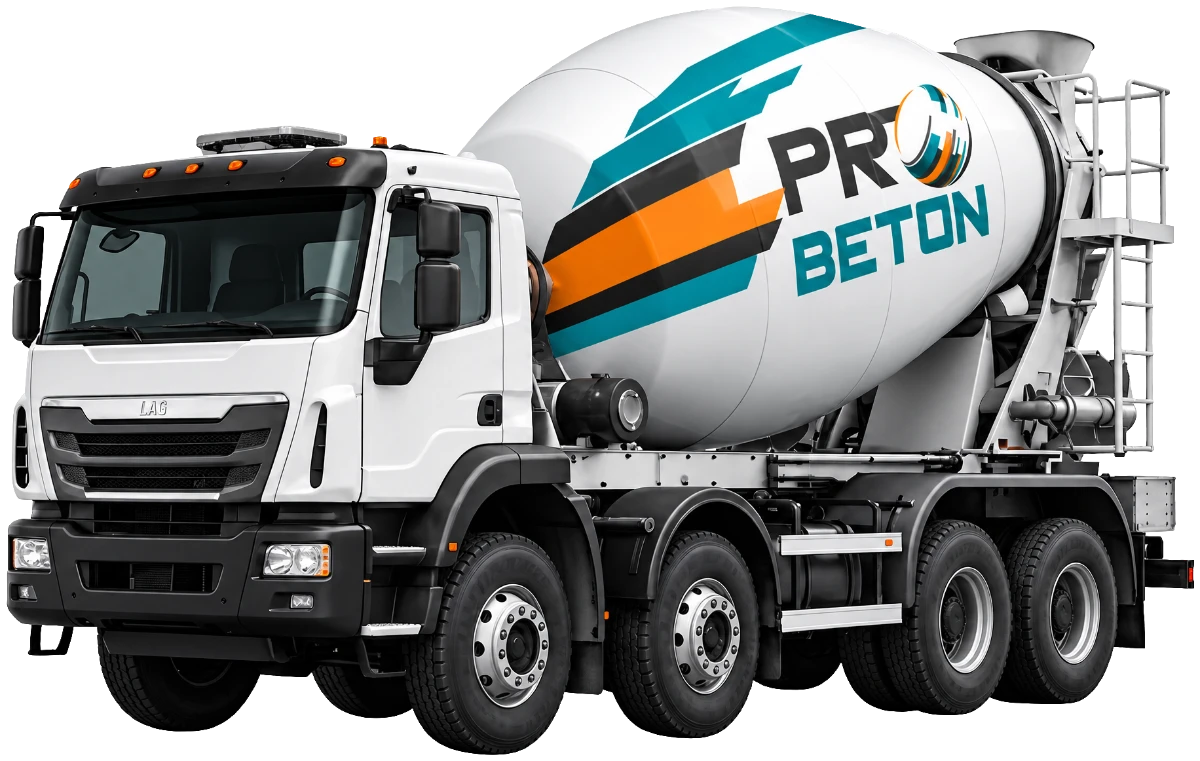
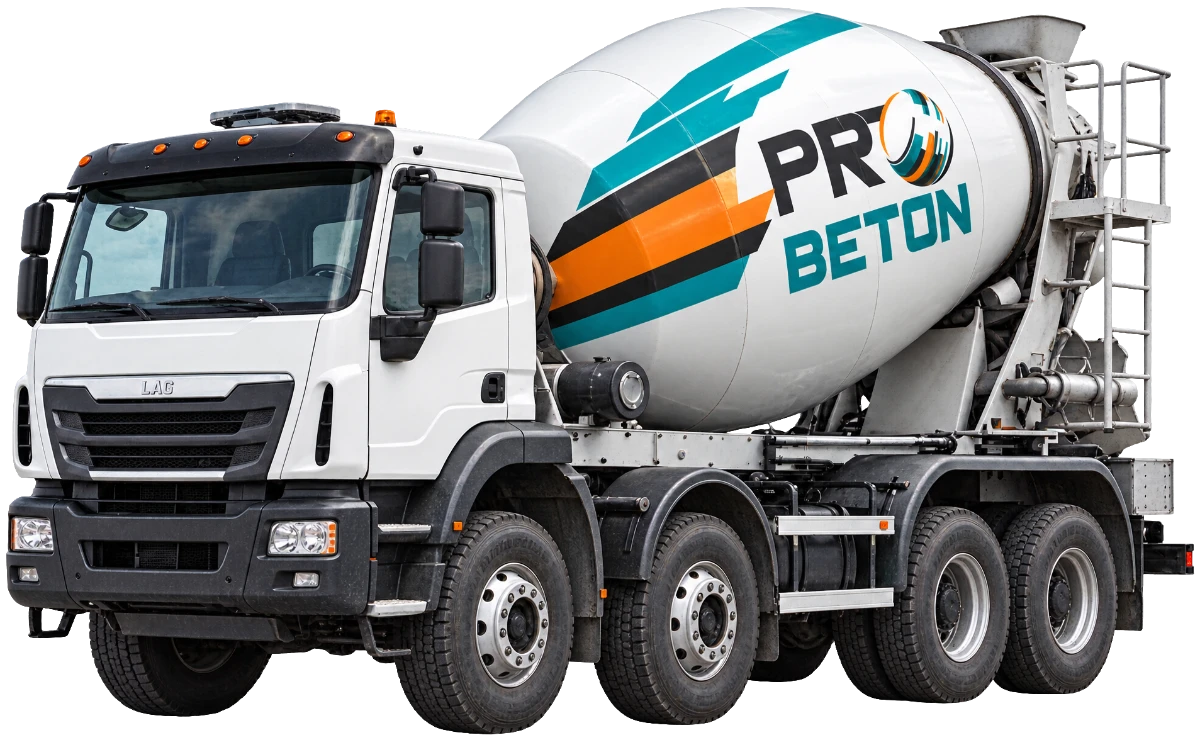
Фотореалістична бетономішалка, великі портрети команди, перша картка гасне при наведенні на іншу

diff --git a/index.html b/index.html
@@ -257,18 +257,19 @@ a{color:inherit}
 .lines .v.soc{display:flex}
 
 /* ---------- про нас ---------- */
-.about{display:grid;grid-template-columns:1fr 1fr;gap:clamp(24px,4vw,64px);align-items:start}
-.story{display:grid;gap:18px;font-size:18px}
+.about{display:grid;grid-template-columns:1fr;gap:clamp(36px,4.5vw,64px);align-items:start}
+.story{display:grid;grid-template-columns:1.15fr 1fr;gap:14px clamp(24px,5vw,80px);font-size:18px;align-items:start}
+.story p:first-child{grid-row:span 2}
 .story p{color:var(--mut)}
 .story p:first-child{color:var(--asphalt);font-size:clamp(20px,2vw,24px);line-height:1.45;font-weight:500}
-.team{display:grid;grid-template-columns:repeat(3,1fr);gap:12px}
-.person{margin:0;position:relative;border-radius:20px;overflow:hidden;aspect-ratio:3/4;max-width:100%;background:var(--asphalt);min-width:0}
+.team{display:grid;grid-template-columns:repeat(3,1fr);gap:clamp(12px,1.8vw,24px)}
+.person{margin:0;position:relative;border-radius:28px;overflow:hidden;aspect-ratio:4/5;max-width:100%;background:var(--asphalt);min-width:0}
 .person img{width:100%;height:100%;object-fit:cover;object-position:50% 0;display:block;transition:transform .6s ease}
 .person:hover img{transform:scale(1.04)}
-.person figcaption{position:absolute;inset:auto 0 0;padding:56px 14px 14px;color:#fff;background:linear-gradient(rgba(0,36,46,0),rgba(0,36,46,.82) 45%,rgba(0,30,38,.96))}
+.person figcaption{position:absolute;inset:auto 0 0;padding:90px clamp(16px,2vw,28px) clamp(16px,2vw,26px);color:#fff;background:linear-gradient(rgba(0,36,46,0),rgba(0,36,46,.82) 45%,rgba(0,30,38,.96))}
 .person{background:var(--teal-deep)}
-.person b{font:700 15px/1.2 var(--body);display:block}
-.person span{font-size:12.5px;color:#C9CBCE;display:block;margin-top:4px;line-height:1.3}
+.person b{font:800 clamp(18px,1.7vw,24px)/1.15 var(--display);letter-spacing:-.01em;display:block}
+.person span{font-size:clamp(13px,1.1vw,16px);color:#C9E4E7;display:block;margin-top:6px;line-height:1.3}
 #tekhnika{position:relative}
 #tekhnika .in{position:relative}
 .loader{position:absolute;right:var(--pad-r);top:clamp(-170px,-11vw,-80px);width:min(44vw,560px);height:auto;pointer-events:none;z-index:2;filter:drop-shadow(0 34px 40px rgba(0,0,0,.55))}
@@ -306,7 +307,8 @@ footer .in{display:flex;flex-wrap:wrap;gap:16px 32px;justify-content:space-betwe
 
 @media (max-width:1040px){
   .top nav{display:none}
-  .hero .in,.beton,.show,.about,.contact{grid-template-columns:1fr}
+  .hero .in,.beton,.show,.about,.contact,.story{grid-template-columns:1fr}
+  .story p:first-child{grid-row:auto}
   .fleet{grid-template-columns:1fr 1fr}
   .flow{grid-template-columns:1fr 1fr}
   .zbv{grid-template-columns:1fr 1fr 1fr}
@@ -406,6 +408,16 @@ footer .in{display:flex;flex-wrap:wrap;gap:16px 32px;justify-content:space-betwe
 .photo .flow li:hover{background:var(--signal);border-color:var(--signal);transform:translateY(-4px)}
 .photo .flow li:hover::before{color:#fff}
 .photo .flow li:hover p{color:#FFE5D6}
+/* поки наведено на іншу картку, перша (помаранчева за замовчуванням) стає звичайною */
+.fleet:hover .mach.hl:not(:hover){background:var(--asphalt);color:#F2F1EC}
+.fleet:hover .mach.hl:not(:hover) p{color:var(--mut-d)}
+.fleet:hover .mach.hl:not(:hover) a{color:var(--signal)}
+.fleet:hover .mach.hl:not(:hover) .hex{--hx:var(--teal)}
+.fleet:hover .mach.hl:not(:hover) .hex svg *{stroke:#fff}
+.fleet:hover .mach.hl:not(:hover) .hex svg circle{fill:var(--teal)}
+.photo .flow:hover li.now:not(:hover){background:rgba(255,255,255,.1);border-color:rgba(255,255,255,.18)}
+.photo .flow:hover li.now:not(:hover)::before{color:var(--signal)}
+.photo .flow:hover li.now:not(:hover) p{color:#D7D9DC}
 .person .c{position:absolute;inset:0;opacity:0;transition:opacity .45s ease,transform .6s ease}
 .person:hover .c,.person:focus-within .c{opacity:1}
 @media (max-width:1040px){.mixer-art{width:min(80vw,460px);justify-self:start;margin-bottom:0}}
@@ -502,7 +514,7 @@ html.anim #tekhnika.seen::before{clip-path:inset(0 0 0 0)}
 <!-- БЕТОН -->
 <section class="band" id="beton">  <div class="in">
     <div class="band-head"><div><span class="eyebrow">Бетон</span><h2>Який бетон? <span class="slant"><span>Якісний</span></span></h2><p class="lead">Сім марок — від стяжки до перекриття. Привеземо міксером і подамо насосом.</p></div>
-      <div class="mixer-art" aria-hidden="true"><img src="img/betonozmishuvach.webp" alt="" width="1200" height="761"></div></div>
+      <div class="mixer-art" aria-hidden="true"><img src="img/betonozmishuvach.webp" alt="" width="1200" height="740"></div></div>
     <div class="beton">
       <div class="grades">
         <span class="lbl" style="font:700 11px/1 var(--mono);letter-spacing:.1em;text-transform:uppercase;color:var(--mut)">Оберіть марку</span>
